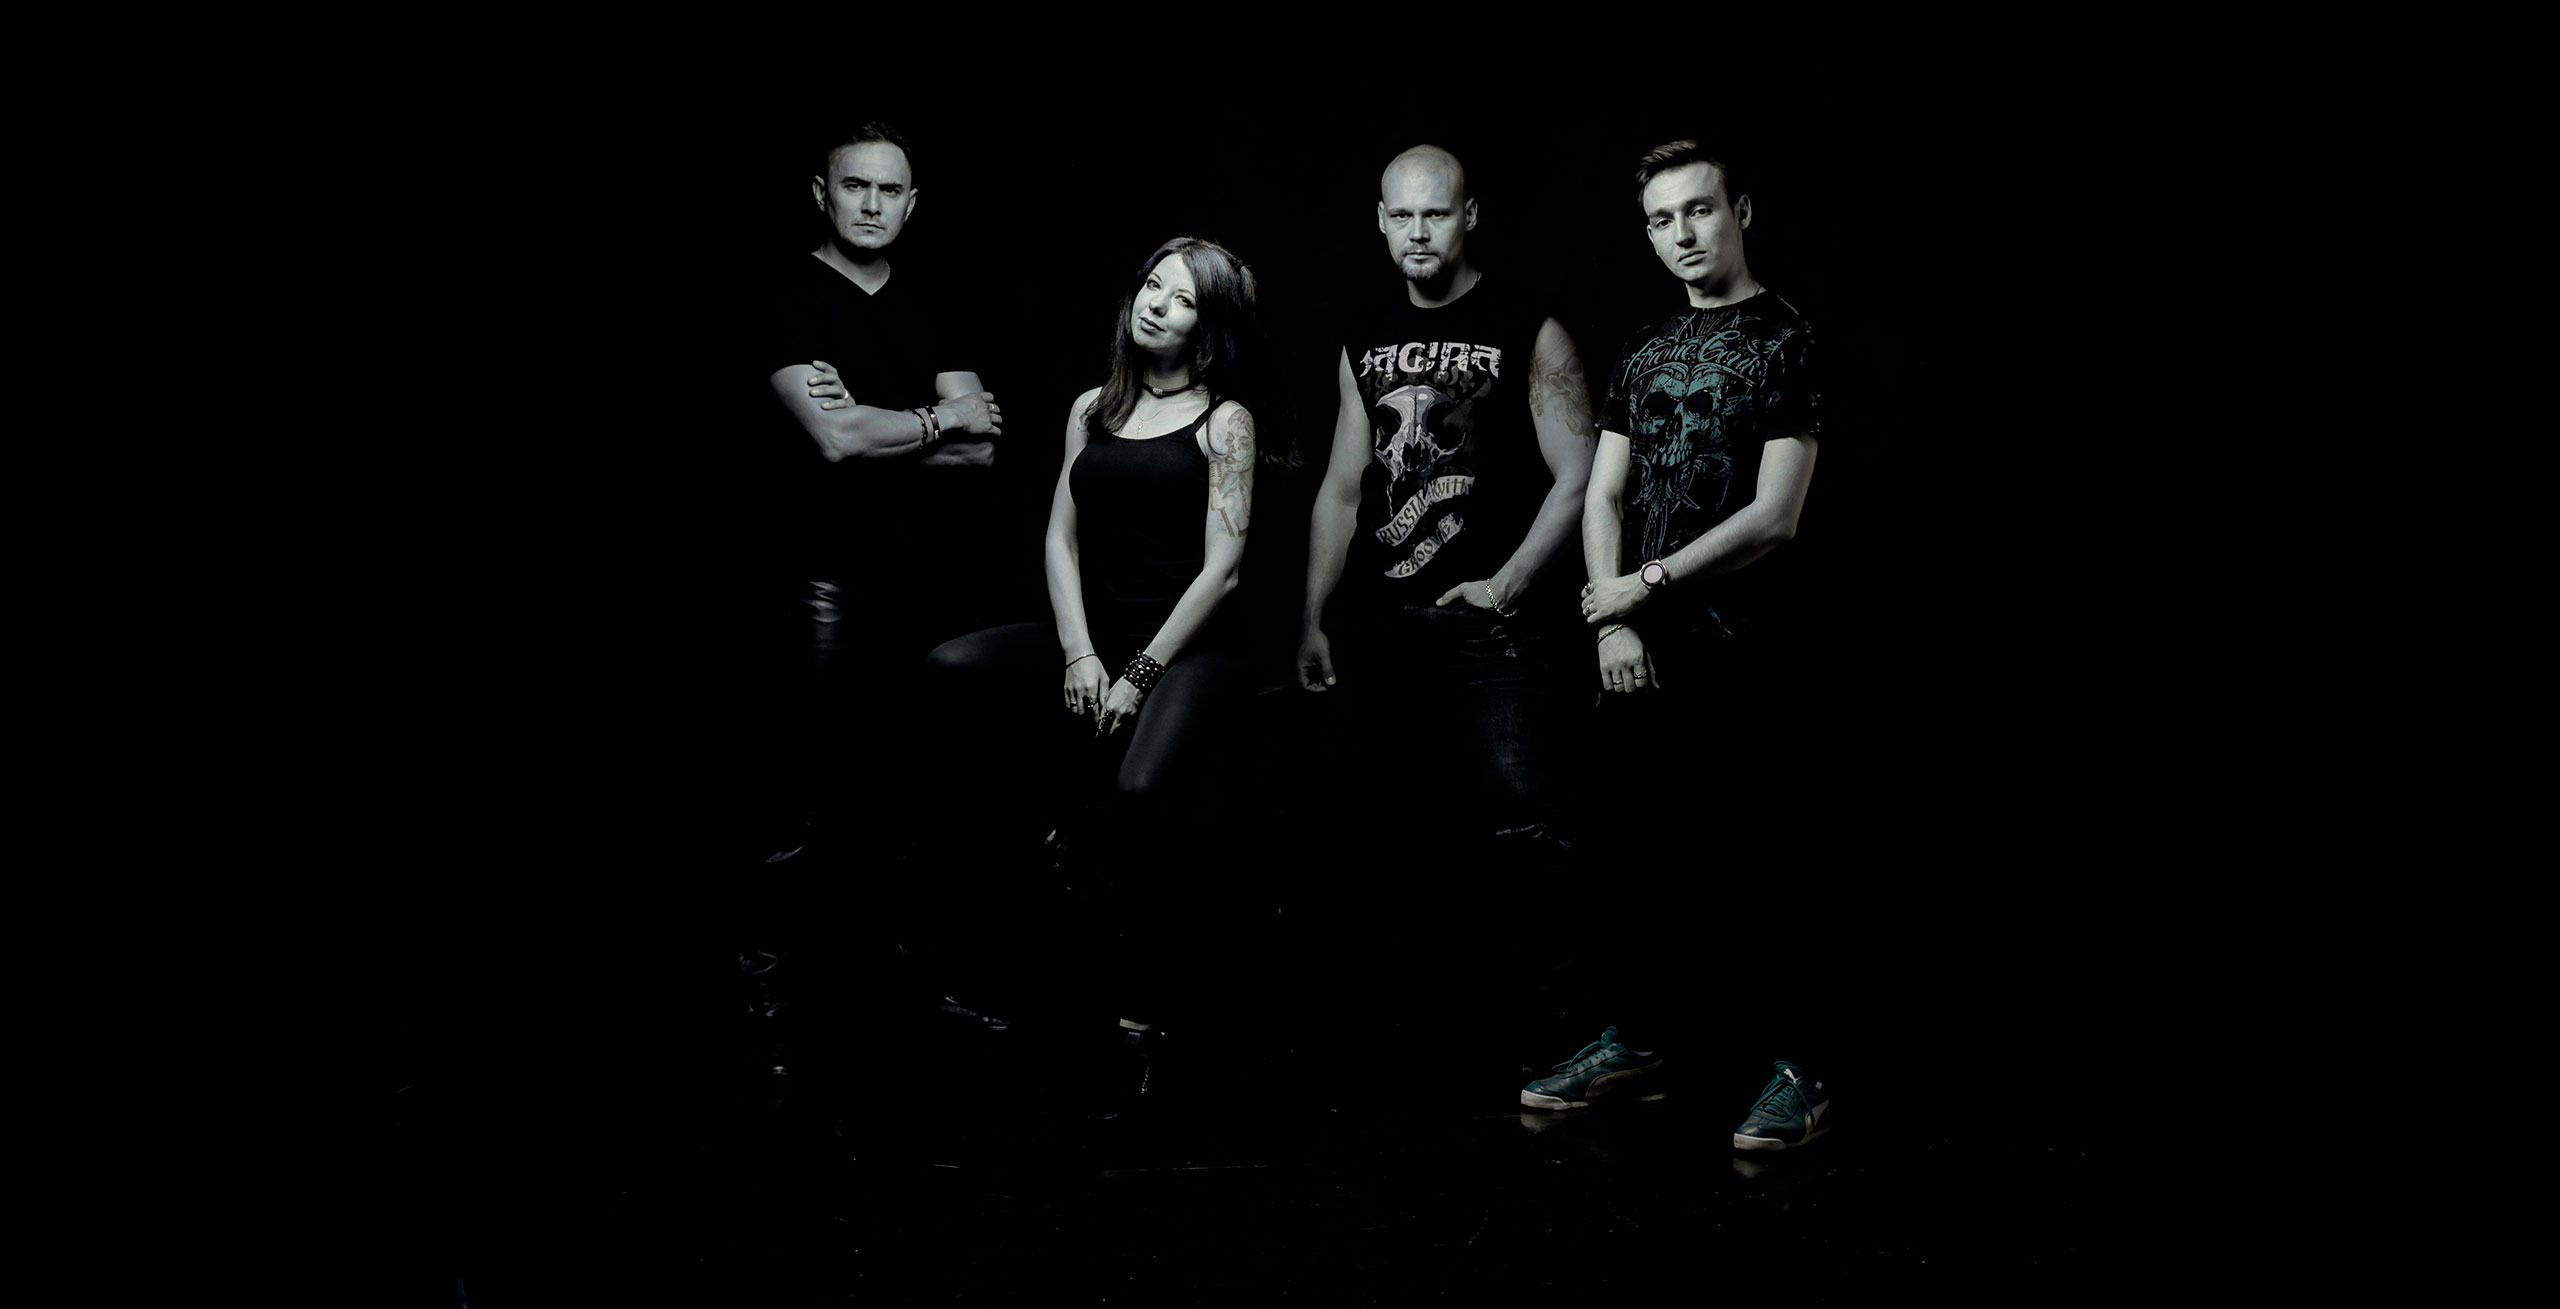
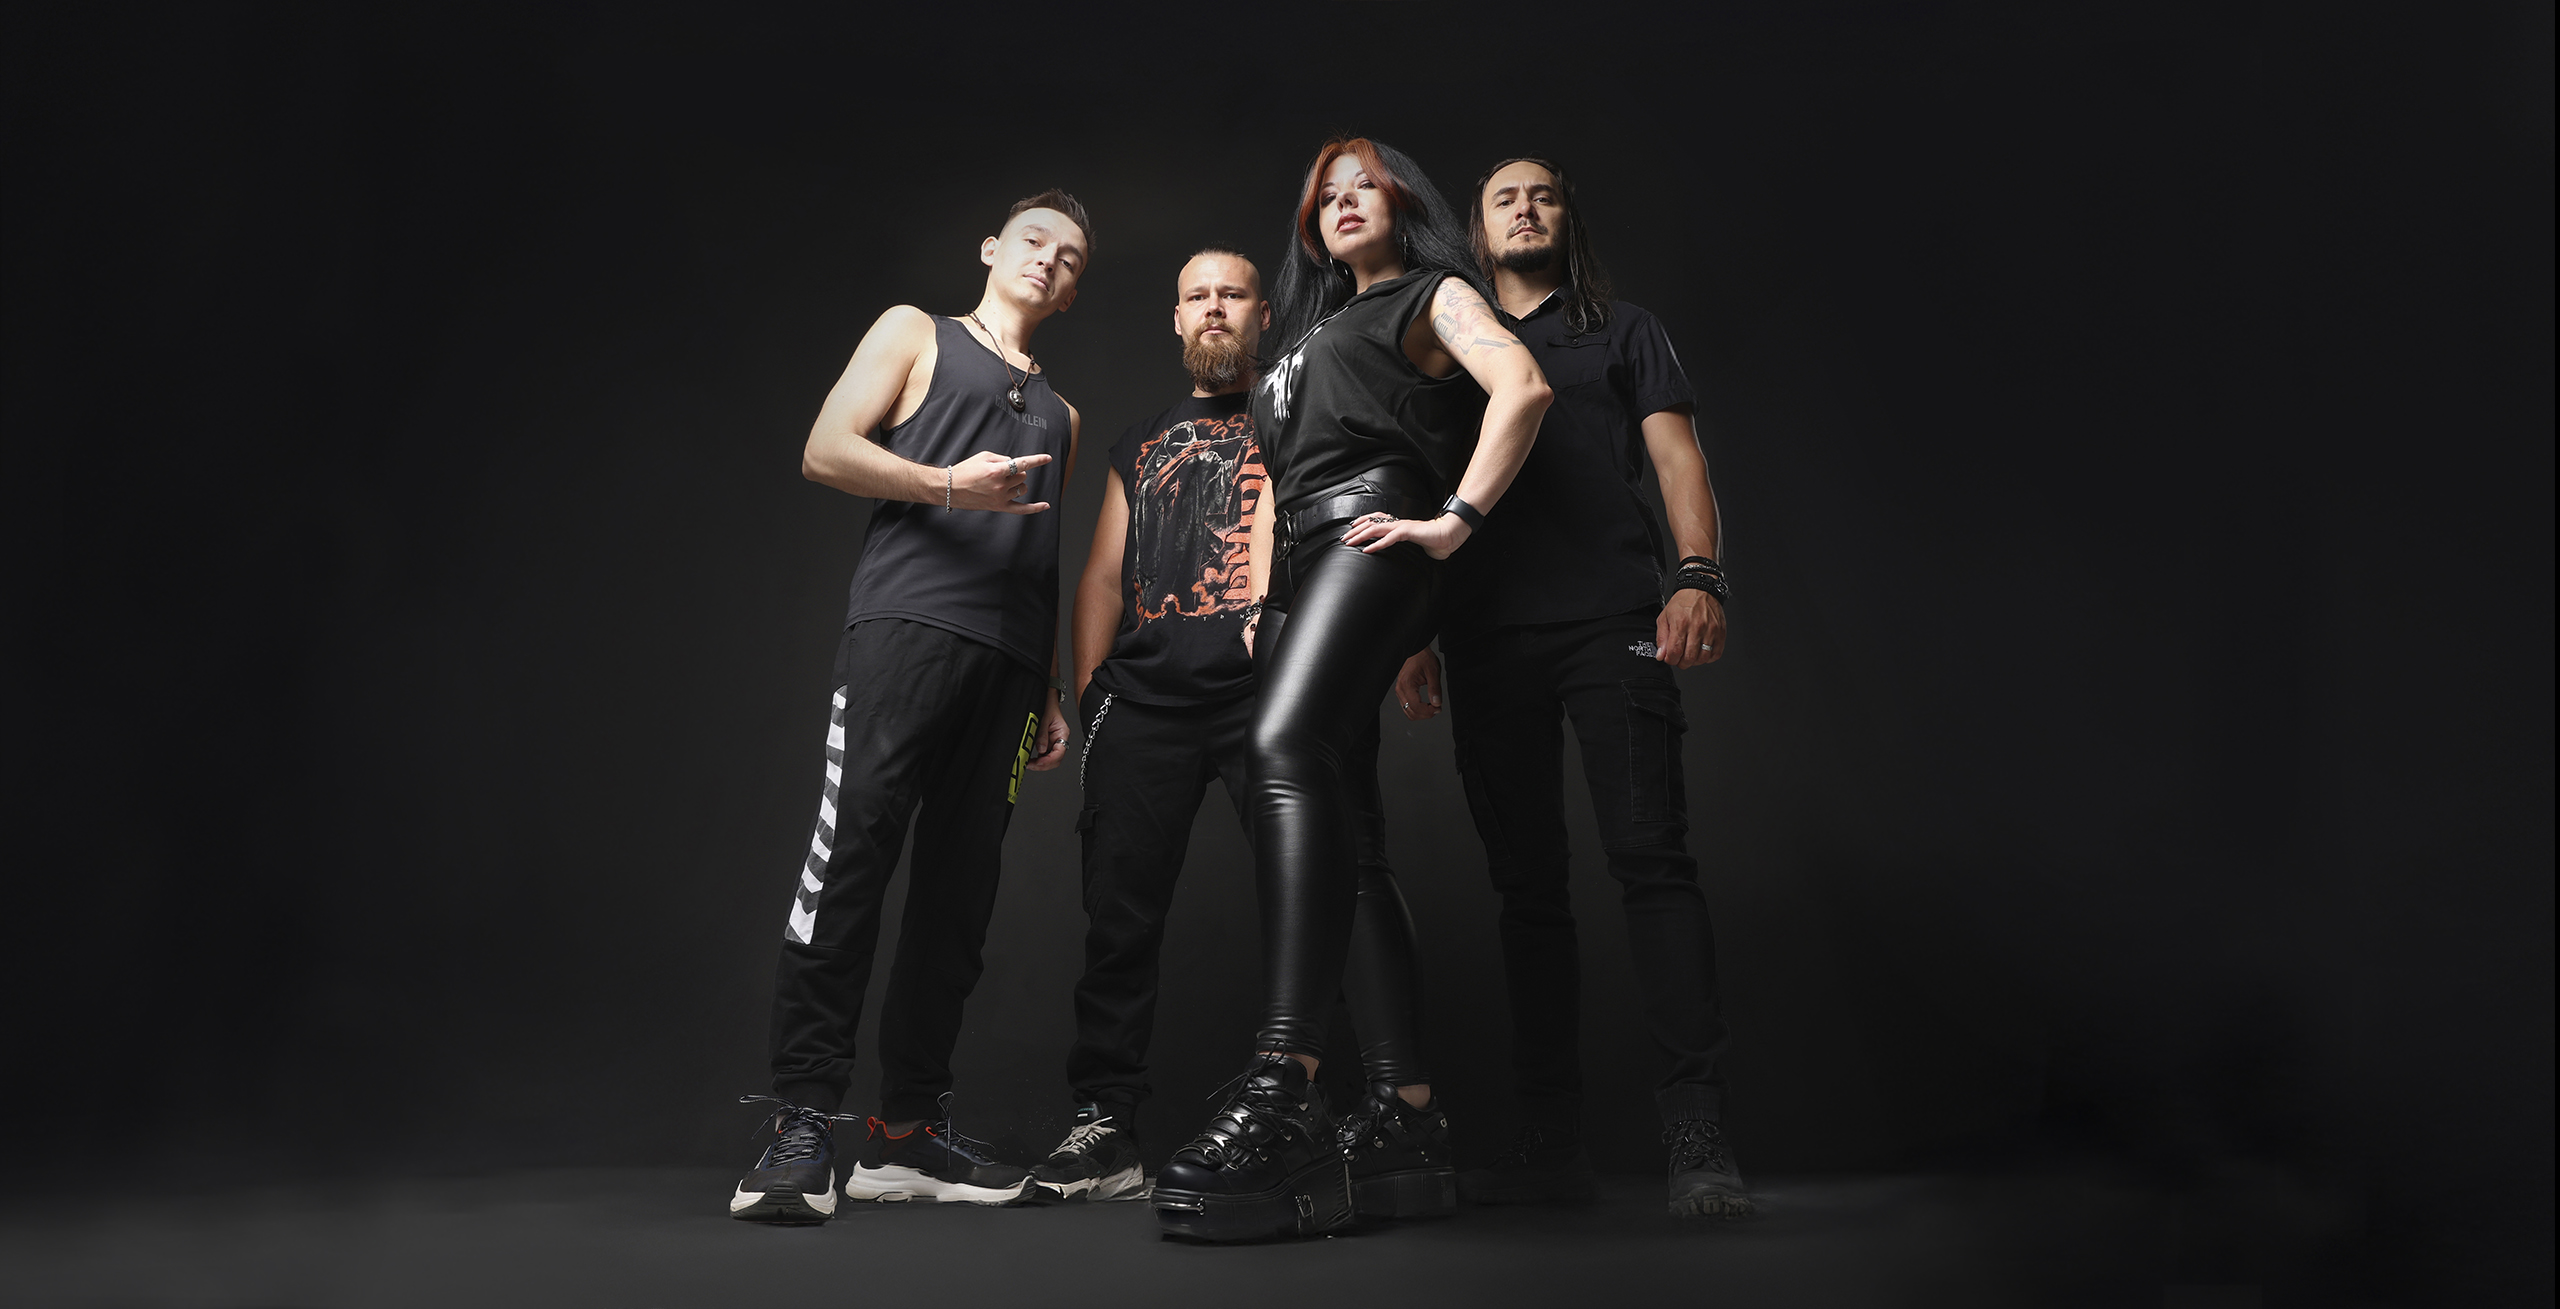
Add Kolovrat and Spill feats and Swan Song video.
Merge the editor catalogue: two 2026 feats, Swan Song as latest copy and clip, and rename collab filters to feats.

diff --git a/cypress/e2e/site.cy.ts b/cypress/e2e/site.cy.ts
@@ -111,9 +111,9 @@ describe('BAGIRA official site', () => {
     cy.get('.cover-card:visible').each(($el) => {
       expect($el.attr('data-type')).to.eq('album');
     });
-    cy.get('#filter-collabs').check({ force: true });
-    cy.get('.cover-card:visible').should('have.length', 2);
-    cy.get('.cover-card:visible .cover-link').first().should('have.attr', 'href').and('include', 'band.link');
+    cy.get('#filter-feats').check({ force: true });
+    cy.get('.cover-card:visible').should('have.length', 4);
+    cy.get('.cover-card:visible .cover-link').first().should('have.attr', 'href').and('match', /^https:\/\//);
     cy.get('.nav-desktop a[lang="en"]').click();
     cy.location('pathname').should('eq', '/en/discography/');
     cy.contains('Discography').should('exist');

diff --git a/src/components/heroImages.ts b/src/components/heroImages.ts
@@ -3,9 +3,8 @@ import { getImage } from 'astro:assets';
 import heroPhoto from '../assets/hero.jpg';
 
 /**
- * Live homepage photo (`assets/images/9.jpg`, 2560×1309):
- * current four-member studio shot on black. Not 10.jpg (album banner)
- * and not the 2018 outdoor photo.
+ * Homepage hero photo (`src/assets/hero.jpg`).
+ * Widths match the live layout: full-bleed landscape, object-fit cover.
  */
 const widths = [1280, 1920, 2560] as const;
 

diff --git a/src/styles/global.css b/src/styles/global.css
@@ -879,7 +879,7 @@
 
   main:has(#filter-albums:checked) .cover-card:not([data-type='album']),
   main:has(#filter-singles:checked) .cover-card:not([data-type='single']),
-  main:has(#filter-collabs:checked) .cover-card:not([data-type='collab']) {
+  main:has(#filter-feats:checked) .cover-card:not([data-type='feat']) {
     display: none;
   }
 

diff --git a/README.md b/README.md
@@ -20,7 +20,7 @@ Upload the contents of `dist/` over the current site. Old `index.html` and `disc
 ## Add a release
 
 1. Put a square cover in `src/assets/covers/{slug}.jpg` (about 800px).
-2. Add a row to `src/data/releases.json` (`title.ru` / `title.en`, `type`: `album` | `single` | `collab`, BandLink URL). Set `cover` to the filename stem (`lebedinaya-pesnya.jpg` → `"cover": "lebedinaya-pesnya"`).
+2. Add a row to `src/data/releases.json` (`title.ru` / `title.en`, `type`: `album` | `single` | `feat`, BandLink URL). Set `cover` to the filename stem (`lebedinaya-pesnya.jpg` → `"cover": "lebedinaya-pesnya"`).
 3. `npm run build` and upload `dist/`.
 
 ## Add a show
@@ -36,7 +36,7 @@ An empty array shows the bilingual empty state plus the BandLink tickets button.
 ## Stack
 
 - Latest Astro, `output: 'static'`
-- Hero photo is the live homepage studio shot (`assets/images/9.jpg`). Displayed like the live site: full landscape, `object-fit: cover`, position `50% 50%`.
+- Hero photo is `src/assets/hero.jpg`. Displayed like the live site: full landscape, `object-fit: cover`, position `50% 50%`.
 - TypeScript **6.0.3** so `astro check` and the language server work. TypeScript 7’s native compiler is faster, but it does not export the JS language-service API that Astro still needs.
 - Custom CSS tokens in `src/styles/global.css` (no Tailwind)
 - Self-hosted Oswald + Manrope (Cyrillic + Latin)
